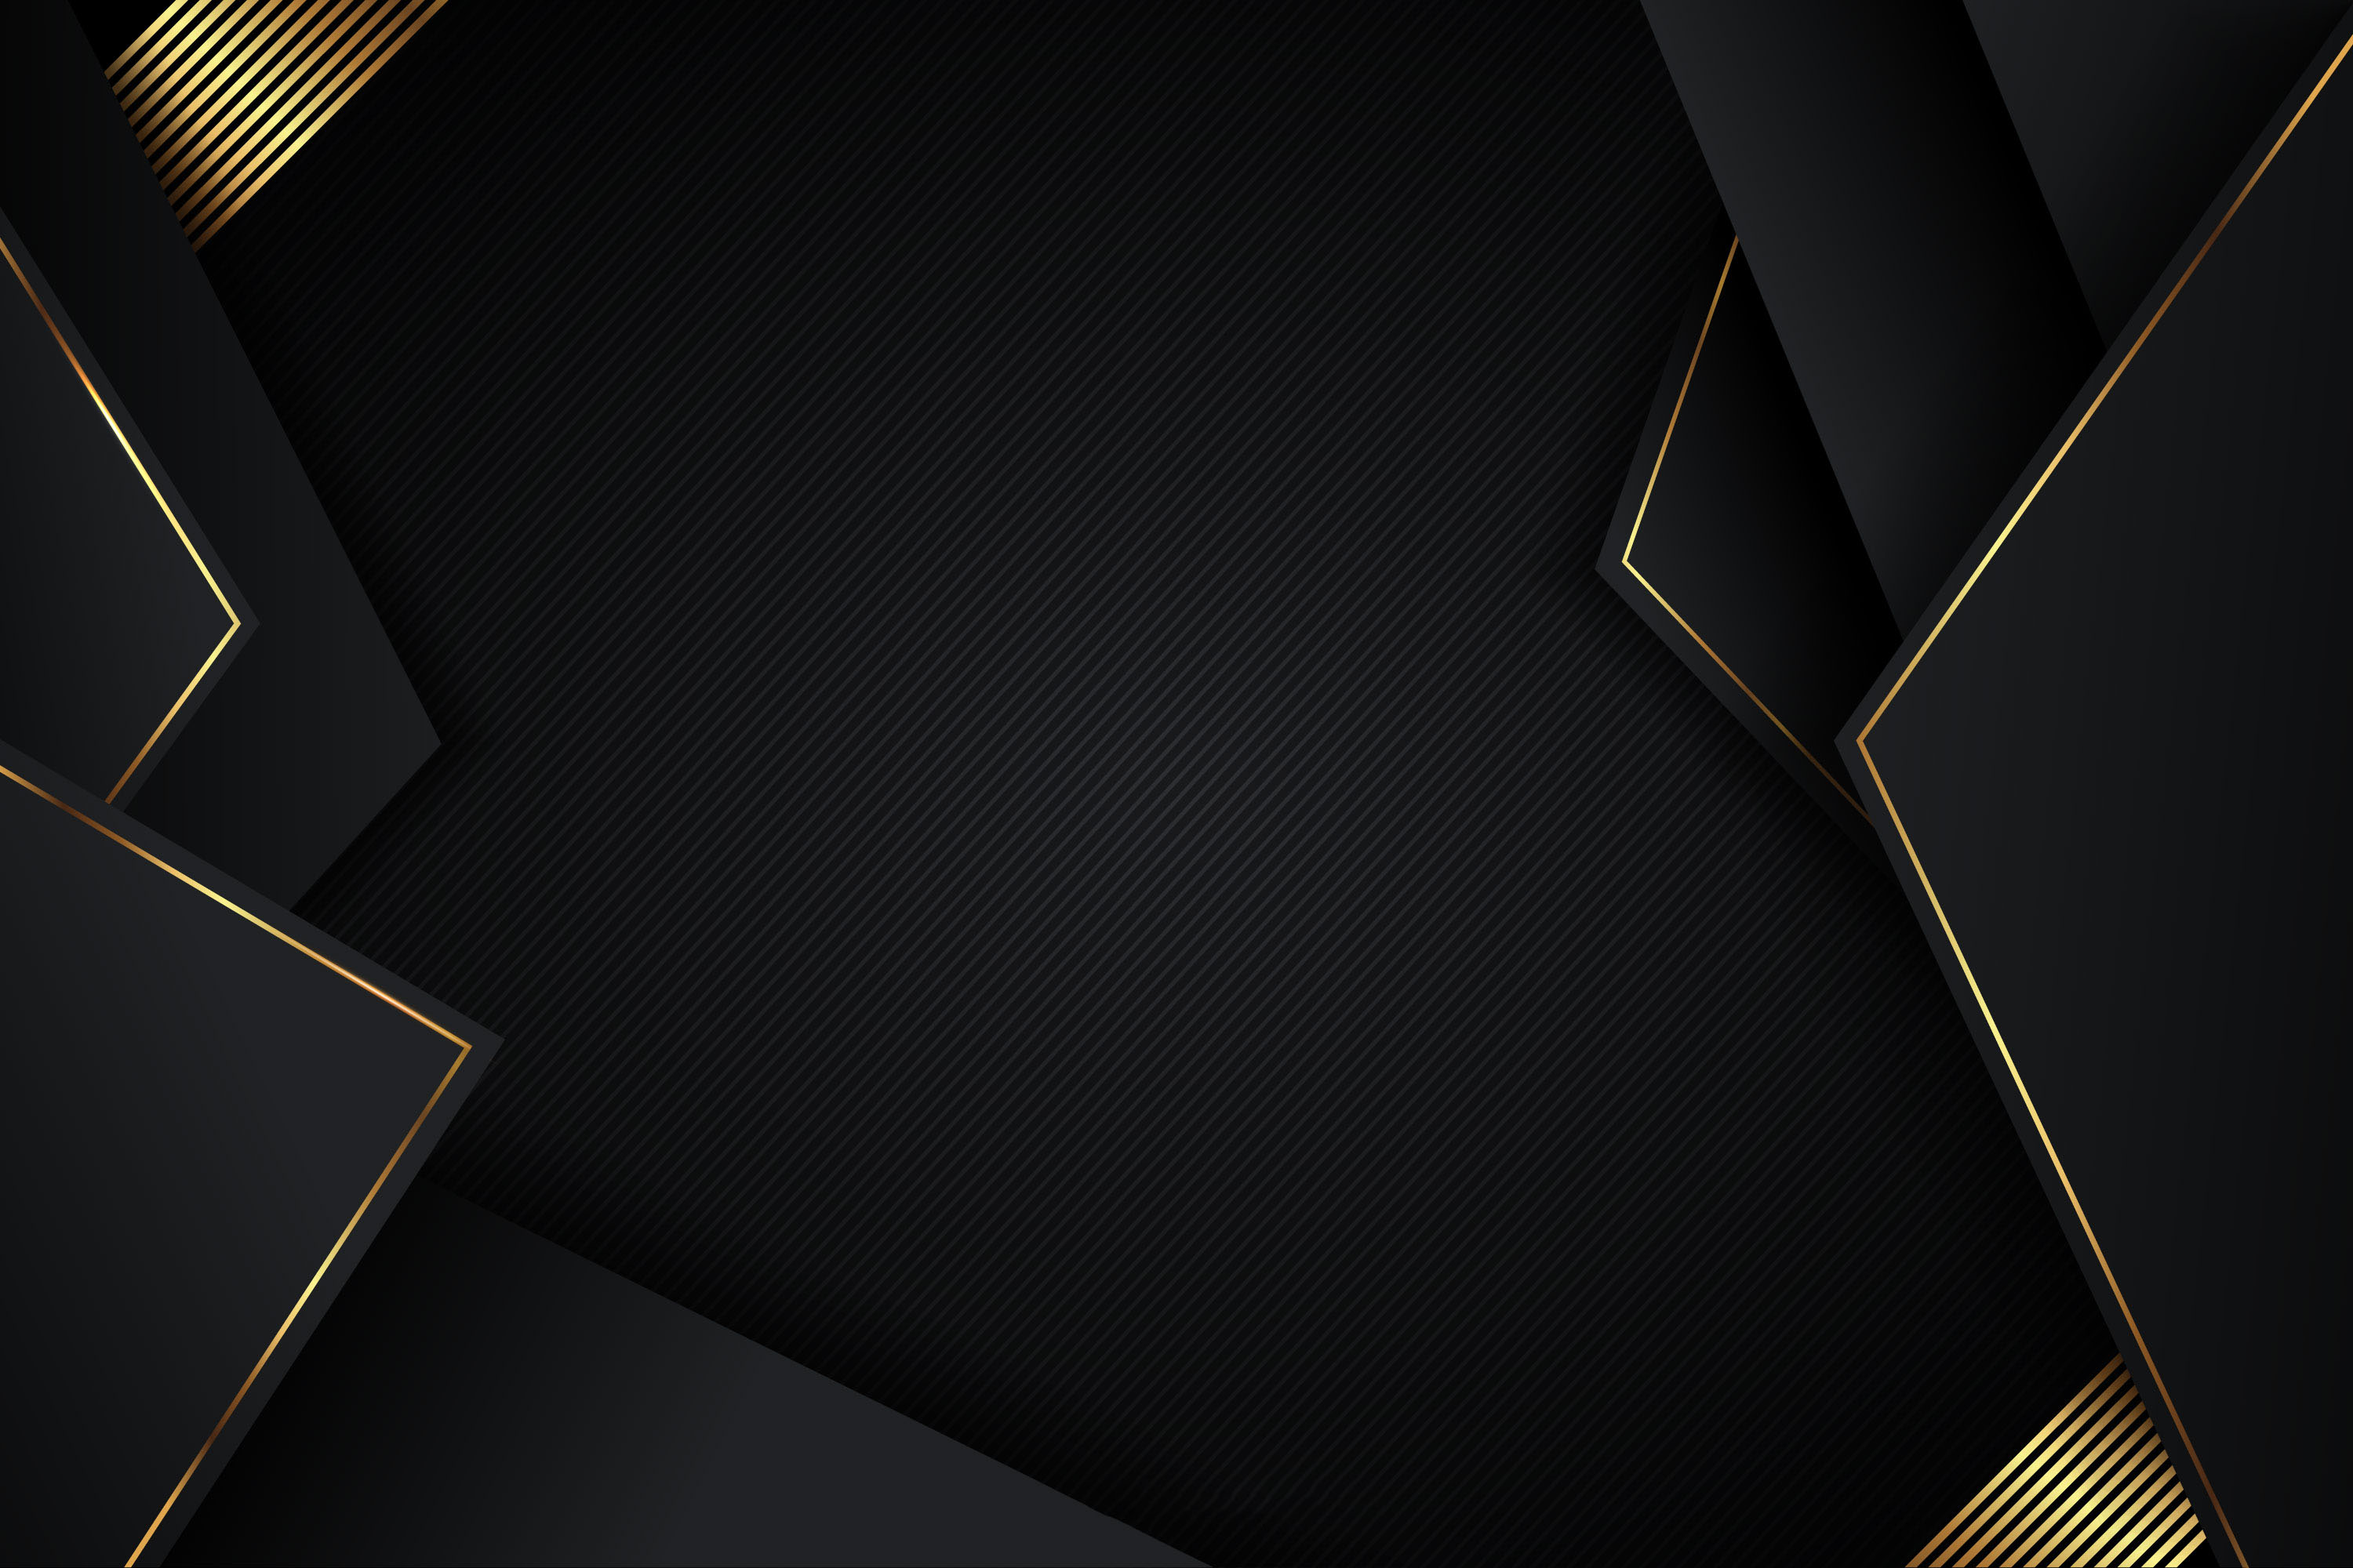
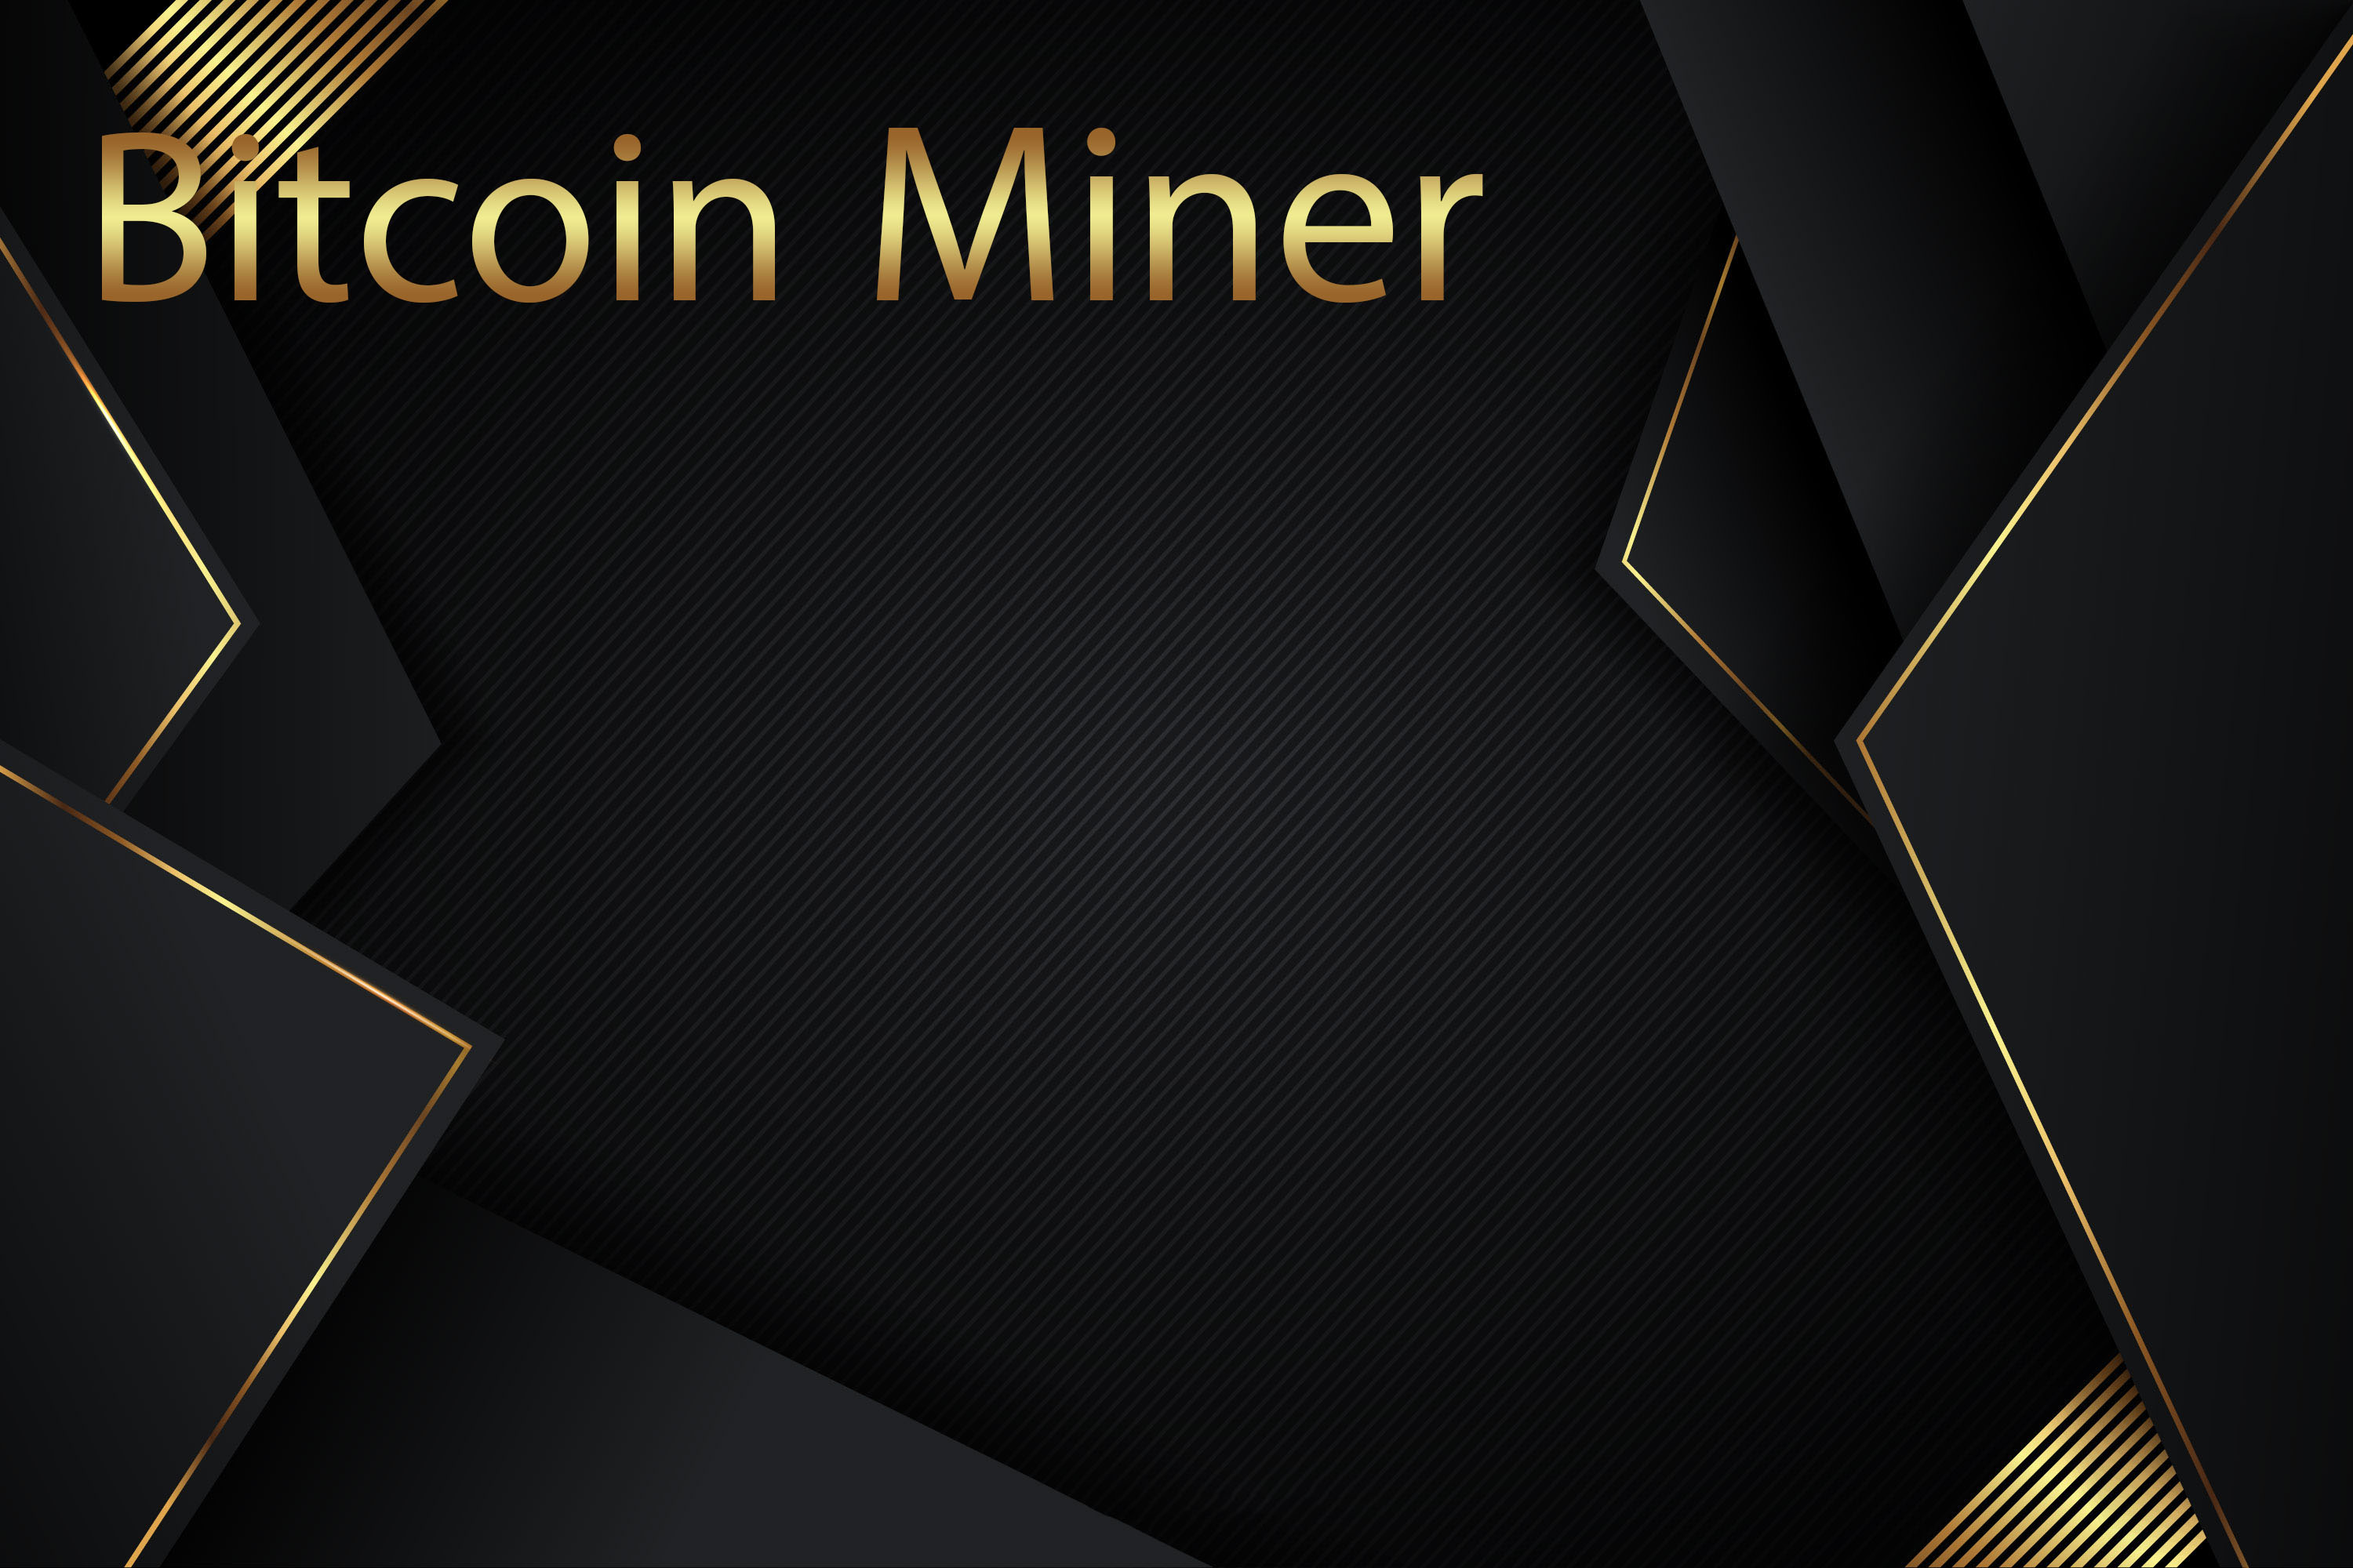
Ajustements du texte
Titre désormais intégré au background.
CSS inutile supprimé.
Les valeur de prix affiche désormais "Prix :" devant eux.

Changed region(s): [[0.031, 0.062, 0.341, 0.217], [0.372, 0.062, 0.651, 0.217]]

diff --git a/index.html b/index.html
@@ -9,12 +9,11 @@
 </head>
 
 <body>
-    <h1 class="center">Bitcoin Miner</h1>
-
     <a href="#" onclick="add()"><img src="images/bitcoin.png" id="image"></a>
 
     <div id="infos">
-        <input type="text" id="text" class="Montserrat" value=0 disabled> Bitcoins.</input>
+        <p class="Montserrat">Nombre de Bitcoins actuels :</p>
+        <input type="text" id="text" class="Montserrat" value=0 disabled></input>
 
         <p id="bitcoinPerSecond">Vous gagnez 0 bitcoins par seconde</p>
 
@@ -24,20 +23,22 @@
 
         <p id="currentMultiplier">Multiplicateur actuel : x1</p>
     </div>
+
     <div id="boutique">
         <p id="ammountMultiplier">Prochaine amélioration : x2</p>
-        <button class="saveloadmulti" onclick="buyMultiplier()"><a class="txtdecnone" href="#"><span
-                    id="ammountMultiplier2">x2</span></a></button>
-        <p id="costMultiplier">200 Bitcoins</p>
+        <button class="saveloadmulti" onclick="buyMultiplier()"><a class="txtdecnone" href="#"><span id="ammountMultiplier2">x2</span></a></button>
+        <p id="costMultiplier">Prix : 200 Bitcoins</p>
         <br>
+        
         <p>Acheter 1 PC</p>
         <button class="upgrades" onclick="buyPC()"><a href="#"><img src="images/pc.png" width="90px" height="90px"></a></button>
-        <p id="costPC"> Bitcoins</p>
+        <p id="costPC">Prix : 15 Bitcoins</p>
         <p id="ammountPC">Vous possédez 0 PC</p>
         <br>
+
         <p>Acheter 1 Serveur</p>
         <button class="upgrades" onclick="buyServer()"><a href="#"><img src="images/server.png" width="90px" height="90px"></a></button>
-        <p id="costServer"> Bitcoins</p>
+        <p id="costServer">Prix : 30 Bitcoins</p>
         <p id="ammountServers">Vous possédez 0 Serveurs</p>
     </div>
 </body>

diff --git a/js/bitcoin.js b/js/bitcoin.js
@@ -46,16 +46,16 @@ function update() {
     //Multiplicateur 
     document.getElementById("ammountMultiplier").innerHTML = "Prochaine amélioration : x" + (multiplier + 1);
     document.getElementById("ammountMultiplier2").innerHTML = "x" + (multiplier + 1);
-    document.getElementById("costMultiplier").innerHTML = ((multiplier + 1) * 100) + " Bitcoins";
+    document.getElementById("costMultiplier").innerHTML = "Prix : " + ((multiplier + 1) * 100) + " Bitcoins";
     document.getElementById("currentMultiplier").innerHTML = "Multiplicateur actuel : x" + (multiplier);
 
     //Mauvais pc
     document.getElementById("ammountPC").innerHTML = "Vous possédez " + PC + " PC";
-    document.getElementById('costPC').innerHTML = ((PC + 1) * 15) + " Bitcoins";
+    document.getElementById('costPC').innerHTML = "Prix : " + ((PC + 1) * 15) + " Bitcoins";
 
     //Serveurs
     document.getElementById("ammountServers").innerHTML = "Vous possédez " + servers + " Serveurs";
-    document.getElementById("costServer").innerHTML = ((servers + 1) * 30) + " Bitcoins";
+    document.getElementById("costServer").innerHTML = "Prix : " + ((servers + 1) * 30) + " Bitcoins";
 
     //Bitcoins par seconde
     document.getElementById("bitcoinPerSecond").innerHTML = "Vous gagnez " + (((PC) + (servers * 2)) * multiplier) + " Bitcoins par seconde";

diff --git a/style.css b/style.css
@@ -8,18 +8,6 @@ html {
     font-family: 'Montserrat';
 }
 
-.center {
-    position: absolute;
-    margin: auto;
-    left: 470px;
-    bottom: 650px;
-}
-
-h1 {
-    font-size: 150px;
-    font-family: 'MontserratThin';
-}
-
 .saveloadmulti {
     background-color: rgb(105, 105, 104);
     border: 0;
@@ -45,10 +33,12 @@ h1 {
 #text {
     color: #edc56e;
     text-align: center;
-    background-color: transparent;
+    background: -webkit-repeating-linear-gradient(#edc56e, #99652b);
     border: 0;
     font-size: 60px;
     max-width: 500px;
+    -webkit-background-clip: text;
+    -webkit-text-fill-color: transparent;
 }
 
 #infos {
